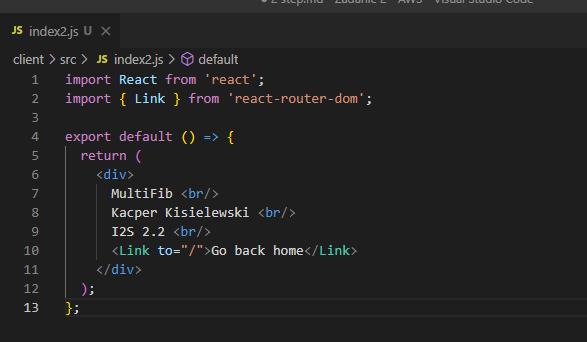
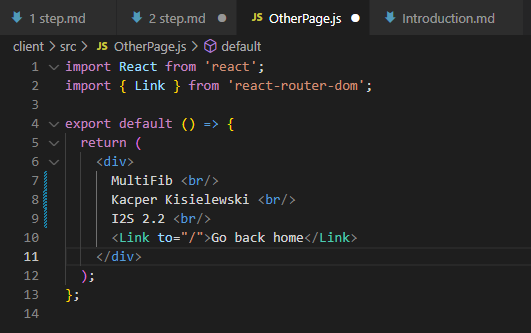
Changes

diff --git a/client/src/OtherPage.js b/client/src/OtherPage.js
@@ -4,7 +4,9 @@ import { Link } from 'react-router-dom';
 export default () => {
   return (
     <div>
-      Im some other page!
+      MultiFib <br/>
+      Kacper Kisielewski <br/>
+      I2S 2.2 <br/>
       <Link to="/">Go back home</Link>
     </div>
   );

diff --git a/2 step.md b/2 step.md
@@ -1,2 +1,9 @@
 ## Realizacja zadania - operacje na repozytorium
 
+> Z pomocą lab 11 oraz umieszczonego tam katalogu, modyfikuję plik - OtherPage.js, który reprezentuje </br>
+nową stronę zgodnie z treścią zadania.
+
+
+### Screen dodanej strony
+![OtherPage.js](https://github.com/KacperKi/Zadanie-2---AWS/blob/main/RealizacjaZadaniaZDJ/Index2.png?raw=true)
+
